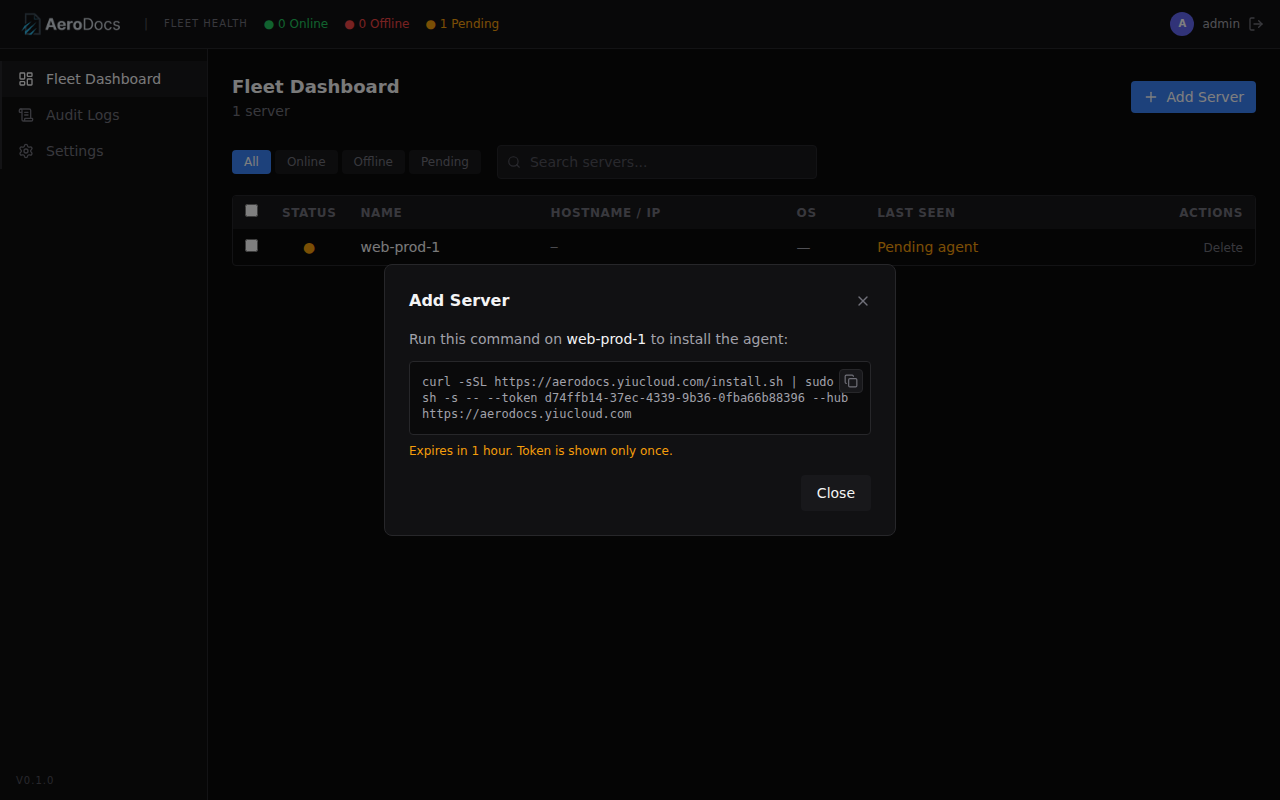
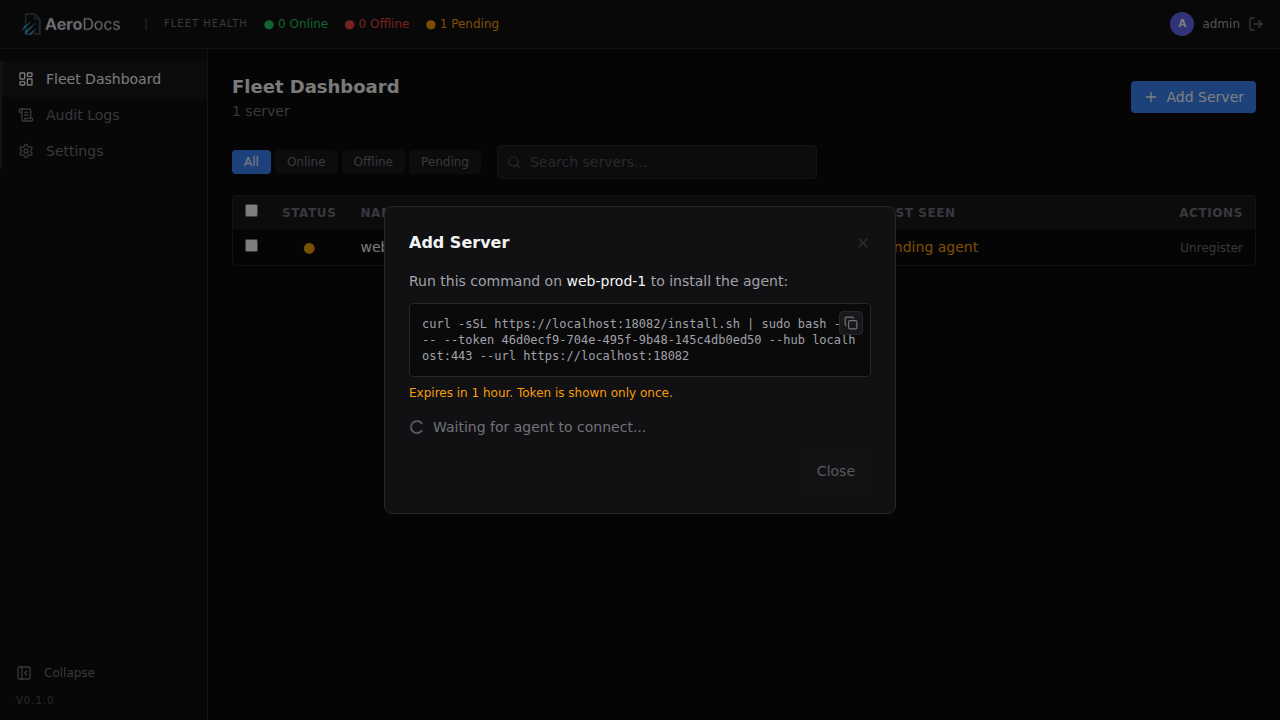
docs: add Playwright screenshot capture spec and update screenshots

diff --git a/tests/e2e/tests/screenshots.spec.ts b/tests/e2e/tests/screenshots.spec.ts
@@ -1,0 +1,327 @@
+/**
+ * Screenshot capture spec — standalone, does NOT use global setup/teardown.
+ *
+ * Spins up its own fresh Docker container so we can capture the setup flow
+ * (before any account exists) as well as all authenticated pages.
+ *
+ * Run standalone:
+ *   cd tests/e2e && npx playwright test screenshots.spec.ts --config playwright-screenshots.config.ts
+ */
+
+import { test, expect, type Page } from '@playwright/test'
+import { authenticator } from 'otplib'
+import { spawnSync } from 'child_process'
+import fs from 'fs'
+import path from 'path'
+
+// Container / network config for the screenshot run
+const CONTAINER_NAME = 'aerodocs-screenshots'
+const HTTP_PORT = '18082'
+const BASE_URL = `http://localhost:${HTTP_PORT}`
+const IMAGE = process.env.E2E_IMAGE || 'aerodocs:latest'
+
+// Output directory — project root docs/screenshots/
+const SCREENSHOT_DIR = path.resolve(__dirname, '../../../docs/screenshots')
+
+// Credentials
+const USERNAME = 'admin'
+const PASSWORD = 'E2eTestPass!2026'
+const EMAIL = 'admin@example.com'
+
+// Shared state across tests (serial execution)
+let totpSecret = ''
+let lastUsedTOTPCode = ''
+
+// Auth tokens
+let authTokens: { access_token: string; refresh_token: string } | null = null
+
+/**
+ * Wait until the TOTP code changes from the last used one.
+ * Prevents code-reuse rejections when multiple tests use TOTP in the same 30s window.
+ */
+async function waitForFreshTOTPCode(): Promise<string> {
+  if (!lastUsedTOTPCode) return authenticator.generate(totpSecret)
+  for (let i = 0; i < 35; i++) {
+    const code = authenticator.generate(totpSecret)
+    if (code !== lastUsedTOTPCode) return code
+    await new Promise(r => setTimeout(r, 1000))
+  }
+  throw new Error('TOTP code did not rotate within 35s')
+}
+
+// ---------------------------------------------------------------------------
+// Container lifecycle helpers
+// ---------------------------------------------------------------------------
+function startContainer() {
+  spawnSync('docker', ['rm', '-f', CONTAINER_NAME], { stdio: 'pipe' })
+
+  const result = spawnSync('docker', [
+    'run', '-d',
+    '--name', CONTAINER_NAME,
+    '-p', `${HTTP_PORT}:8081`,
+    IMAGE,
+  ], { stdio: 'pipe' })
+
+  if (result.status !== 0) {
+    throw new Error(`Failed to start container: ${result.stderr?.toString()}`)
+  }
+}
+
+async function waitForReady(timeoutSec = 30) {
+  for (let i = 0; i < timeoutSec; i++) {
+    try {
+      const res = await fetch(`${BASE_URL}/api/auth/status`)
+      if (res.ok) {
+        console.log(`Screenshot container ready after ${i + 1}s`)
+        return
+      }
+    } catch { /* not ready */ }
+    await new Promise(r => setTimeout(r, 1000))
+  }
+  throw new Error(`Container not ready after ${timeoutSec}s`)
+}
+
+function stopContainer() {
+  spawnSync('docker', ['rm', '-f', CONTAINER_NAME], { stdio: 'pipe' })
+}
+
+// ---------------------------------------------------------------------------
+// Auth helper — obtains fresh tokens via Node.js fetch, injects into page
+// ---------------------------------------------------------------------------
+async function obtainFreshTokens(): Promise<{ access_token: string; refresh_token: string }> {
+  const code = await waitForFreshTOTPCode()
+
+  const loginResp = await fetch(`${BASE_URL}/api/auth/login`, {
+    method: 'POST',
+    headers: { 'Content-Type': 'application/json' },
+    body: JSON.stringify({ username: USERNAME, password: PASSWORD }),
+  })
+  if (!loginResp.ok) {
+    throw new Error(`Login API failed: ${loginResp.status} ${await loginResp.text()}`)
+  }
+  const loginData = (await loginResp.json()) as { totp_token: string }
+
+  const totpResp = await fetch(`${BASE_URL}/api/auth/login/totp`, {
+    method: 'POST',
+    headers: { 'Content-Type': 'application/json' },
+    body: JSON.stringify({ totp_token: loginData.totp_token, code }),
+  })
+  if (!totpResp.ok) {
+    throw new Error(`TOTP API failed: ${totpResp.status} ${await totpResp.text()}`)
+  }
+
+  lastUsedTOTPCode = code
+  const tokens = (await totpResp.json()) as { access_token: string; refresh_token: string }
+  authTokens = tokens
+  return tokens
+}
+
+async function injectAuth(page: Page, targetPath = '/') {
+  // Obtain fresh tokens if we don't have any yet
+  if (!authTokens) {
+    await obtainFreshTokens()
+  }
+
+  // Navigate to the target page — SPA will redirect to /login since no tokens yet
+  await page.goto(BASE_URL + targetPath)
+  // Set tokens in localStorage (works on any same-origin page including /login)
+  await page.evaluate((tokens) => {
+    localStorage.setItem('aerodocs_access_token', tokens.access_token)
+    localStorage.setItem('aerodocs_refresh_token', tokens.refresh_token)
+  }, authTokens!)
+  // Reload — SPA reads tokens on init, calls /auth/me, authenticates, shows target page
+  await page.reload()
+  await page.waitForLoadState('networkidle')
+}
+
+// ---------------------------------------------------------------------------
+// Screenshot helper
+// ---------------------------------------------------------------------------
+function screenshotPath(name: string) {
+  return path.join(SCREENSHOT_DIR, name)
+}
+
+// ---------------------------------------------------------------------------
+// Tests — serial execution
+// ---------------------------------------------------------------------------
+test.describe.configure({ mode: 'serial' })
+
+test.describe('Screenshot capture', () => {
+  test.beforeAll(async () => {
+    fs.mkdirSync(SCREENSHOT_DIR, { recursive: true })
+    startContainer()
+    await waitForReady()
+  })
+
+  test.afterAll(async () => {
+    stopContainer()
+  })
+
+  // 01 — Setup page (fresh system, no account)
+  test('01-setup-page', async ({ page }) => {
+    await page.goto(`${BASE_URL}/`)
+    await expect(page).toHaveURL(/\/setup$/, { timeout: 10000 })
+    await expect(page.getByRole('button', { name: 'Create Account' })).toBeVisible()
+
+    await page.screenshot({
+      path: screenshotPath('01-setup-page.png'),
+      fullPage: true,
+    })
+  })
+
+  // 02 — TOTP setup screen (after account creation)
+  test('02-totp-setup', async ({ page }) => {
+    await page.goto(`${BASE_URL}/setup`)
+    await expect(page.getByRole('button', { name: 'Create Account' })).toBeVisible()
+
+    await page.getByPlaceholder('username').fill(USERNAME)
+    await page.getByPlaceholder('email').fill(EMAIL)
+    await page.getByPlaceholder('password (min 12 chars)').fill(PASSWORD)
+    await page.getByRole('button', { name: 'Create Account' }).click()
+
+    await expect(page).toHaveURL(/\/setup\/totp$/, { timeout: 10000 })
+
+    const secretEl = page.locator('code')
+    await expect(secretEl).toBeVisible({ timeout: 10000 })
+    totpSecret = (await secretEl.textContent()) ?? ''
+    expect(totpSecret.length).toBeGreaterThan(10)
+
+    await page.screenshot({
+      path: screenshotPath('02-totp-setup.png'),
+      fullPage: true,
+    })
+
+    // Complete TOTP setup
+    const code = authenticator.generate(totpSecret)
+    const inputs = page.locator('input[inputmode="numeric"]')
+    await expect(inputs).toHaveCount(6)
+    for (let i = 0; i < 6; i++) {
+      await inputs.nth(i).fill(code[i])
+    }
+    lastUsedTOTPCode = code
+    await expect(page).toHaveURL(new RegExp(`^${BASE_URL}/?$`), { timeout: 15000 })
+  })
+
+  // 03 — Login page
+  test('03-login-page', async ({ page }) => {
+    await page.goto(`${BASE_URL}/login`)
+    await expect(page).toHaveURL(/\/login$/, { timeout: 10000 })
+    await expect(page.getByRole('button', { name: 'Sign In' })).toBeVisible()
+
+    await page.screenshot({
+      path: screenshotPath('03-login-page.png'),
+      fullPage: true,
+    })
+  })
+
+  // 04 — TOTP login verification page + obtain auth tokens for later tests
+  test('04-totp-login', async ({ page }) => {
+    await page.goto(`${BASE_URL}/login`)
+    await page.getByPlaceholder('username').fill(USERNAME)
+    await page.getByPlaceholder('password').fill(PASSWORD)
+    await page.getByRole('button', { name: 'Sign In' }).click()
+
+    await expect(page).toHaveURL(/\/login\/totp$/, { timeout: 10000 })
+
+    await page.screenshot({
+      path: screenshotPath('04-totp-login.png'),
+      fullPage: true,
+    })
+
+    // Complete the login
+    const code = await waitForFreshTOTPCode()
+    const inputs = page.locator('input[inputmode="numeric"]')
+    await expect(inputs).toHaveCount(6)
+    for (let i = 0; i < 6; i++) {
+      await inputs.nth(i).fill(code[i])
+    }
+    lastUsedTOTPCode = code
+    await expect(page).toHaveURL(new RegExp(`^${BASE_URL}/?$`), { timeout: 15000 })
+
+    // Obtain API tokens for subsequent authenticated screenshot tests
+    await obtainFreshTokens()
+  })
+
+  // 05 — Fleet dashboard (empty state)
+  test('05-fleet-dashboard', async ({ page }) => {
+    await injectAuth(page)
+    await expect(page.getByRole('heading', { name: 'Fleet Dashboard' })).toBeVisible({ timeout: 10000 })
+
+    await page.screenshot({
+      path: screenshotPath('05-fleet-dashboard.png'),
+      fullPage: true,
+    })
+  })
+
+  // 06 — Add Server modal
+  test('06-add-server-modal', async ({ page }) => {
+    await injectAuth(page)
+    await expect(page.getByRole('heading', { name: 'Fleet Dashboard' })).toBeVisible({ timeout: 10000 })
+
+    await page.getByRole('button', { name: 'Add Server' }).click()
+    await expect(page.getByRole('heading', { name: 'Add Server' })).toBeVisible()
+
+    await page.getByPlaceholder('e.g., web-prod-1').fill('web-prod-1')
+    await page.getByRole('button', { name: 'Generate' }).click()
+
+    await expect(page.locator('pre')).toBeVisible({ timeout: 10000 })
+
+    await page.screenshot({
+      path: screenshotPath('06-add-server-modal.png'),
+      fullPage: true,
+    })
+  })
+
+  // 07 — Audit logs
+  test('07-audit-logs', async ({ page }) => {
+    await injectAuth(page, '/audit-logs')
+    await expect(page).toHaveURL(/\/audit-logs/, { timeout: 10000 })
+
+    await expect(page.getByRole('heading', { name: 'Audit Logs' })).toBeVisible({ timeout: 10000 })
+
+    // Wait for entries to load
+    await expect(
+      page.locator('table tbody tr').first()
+    ).toBeVisible({ timeout: 10000 })
+
+    await page.screenshot({
+      path: screenshotPath('07-audit-logs.png'),
+      fullPage: true,
+    })
+  })
+
+  // 08 — Settings profile tab
+  test('08-settings-profile', async ({ page }) => {
+    await injectAuth(page, '/settings')
+    await expect(page).toHaveURL(/\/settings/, { timeout: 10000 })
+    await expect(page.getByText('admin').first()).toBeVisible({ timeout: 10000 })
+
+    await page.screenshot({
+      path: screenshotPath('08-settings-profile.png'),
+      fullPage: true,
+    })
+  })
+
+  // 09 — Settings users tab
+  test('09-settings-users', async ({ page }) => {
+    await injectAuth(page, '/settings?tab=users')
+    await expect(page).toHaveURL(/\/settings/, { timeout: 10000 })
+    await expect(page.getByText('User Management')).toBeVisible({ timeout: 10000 })
+    await expect(page.locator('tr').filter({ hasText: 'admin' }).first()).toBeVisible({ timeout: 10000 })
+
+    await page.screenshot({
+      path: screenshotPath('09-settings-users.png'),
+      fullPage: true,
+    })
+  })
+
+  // 10 — Server detail file tree (requires connected agent — skip)
+  test.skip('10-server-detail-filetree', async ({ page }) => {
+    // Requires a connected agent — not feasible in standalone E2E
+  })
+
+  // 11 — Server detail dropzone (requires connected agent — skip)
+  test.skip('11-server-detail-dropzone', async ({ page }) => {
+    // Requires a connected agent — not feasible in standalone E2E
+  })
+})

diff --git a/tests/e2e/playwright-screenshots.config.ts b/tests/e2e/playwright-screenshots.config.ts
@@ -1,0 +1,22 @@
+import { defineConfig } from '@playwright/test'
+
+/**
+ * Playwright config for the screenshot spec only.
+ * No global setup/teardown — the spec manages its own container.
+ */
+export default defineConfig({
+  testDir: './tests',
+  testMatch: 'screenshots.spec.ts',
+  timeout: 60000,
+  retries: 0,
+  fullyParallel: false,
+  use: {
+    baseURL: 'http://localhost:18082',
+    screenshot: 'only-on-failure',
+    trace: 'off',
+    viewport: { width: 1280, height: 720 },
+  },
+  projects: [
+    { name: 'chromium', use: { browserName: 'chromium' } },
+  ],
+})
